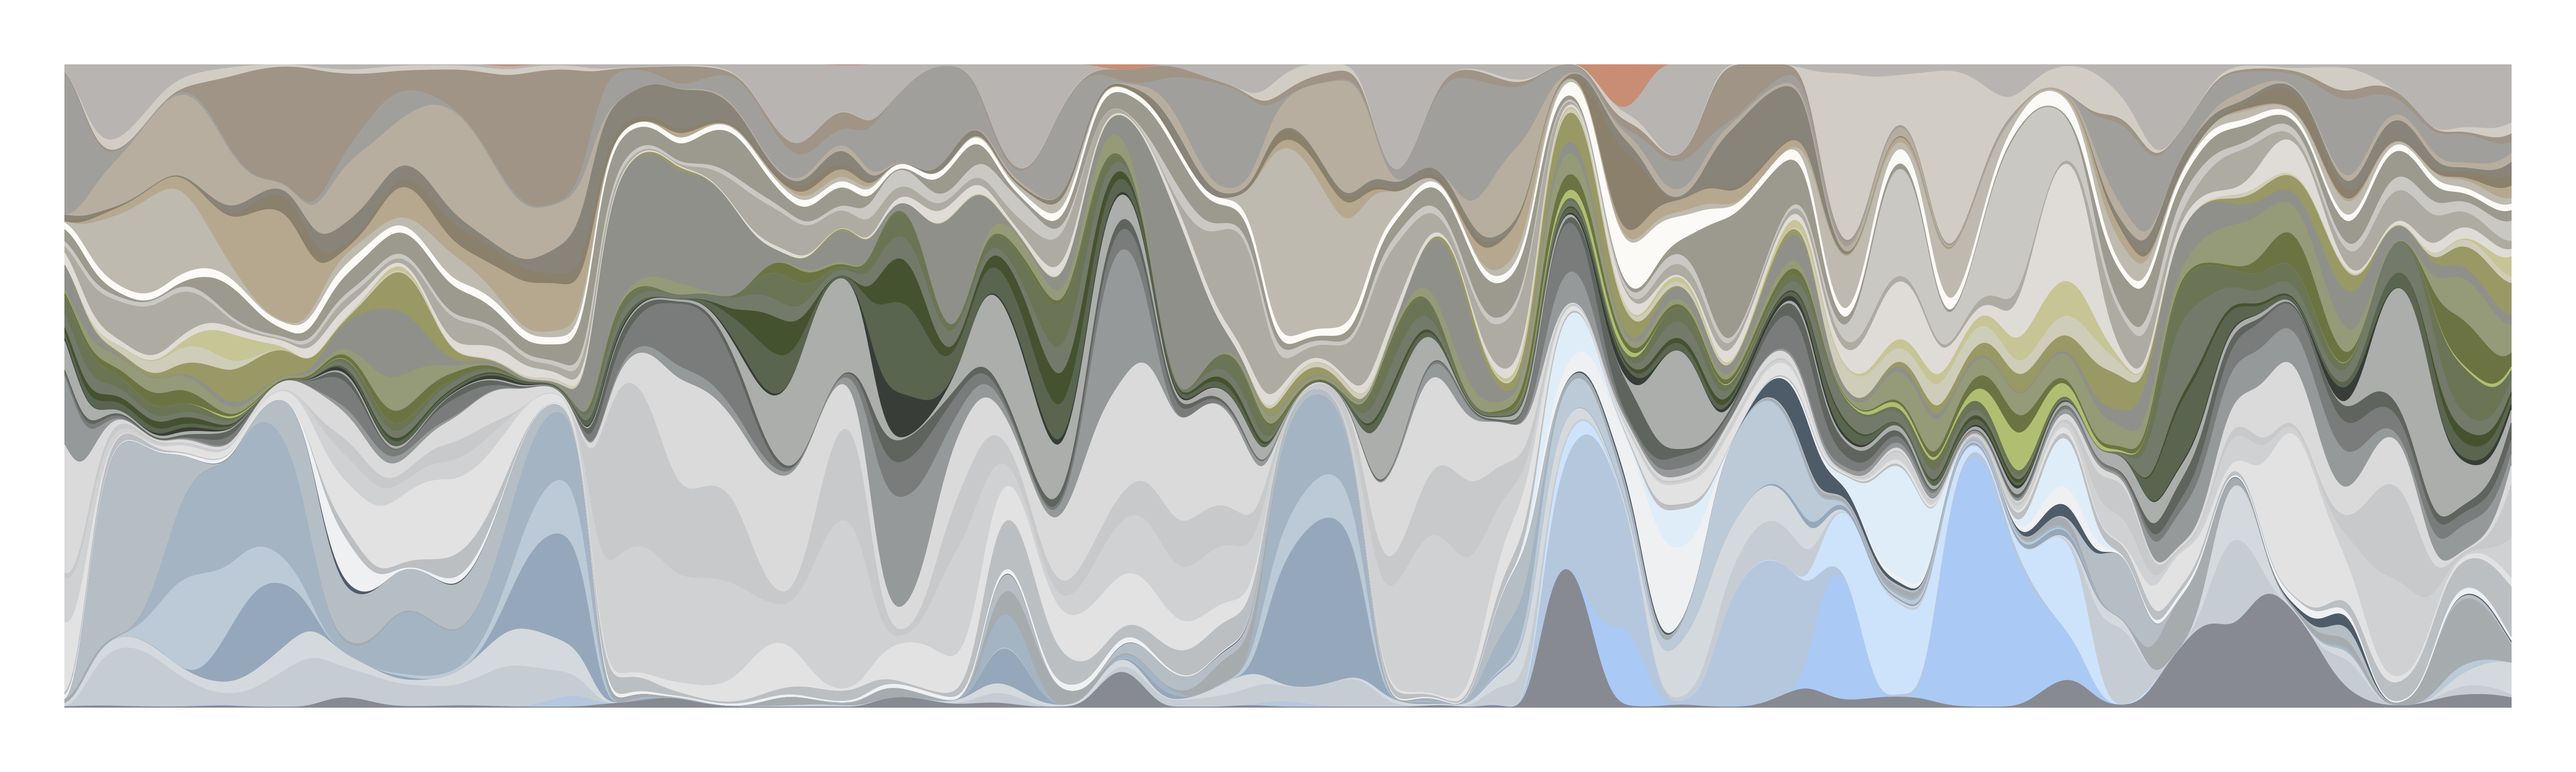
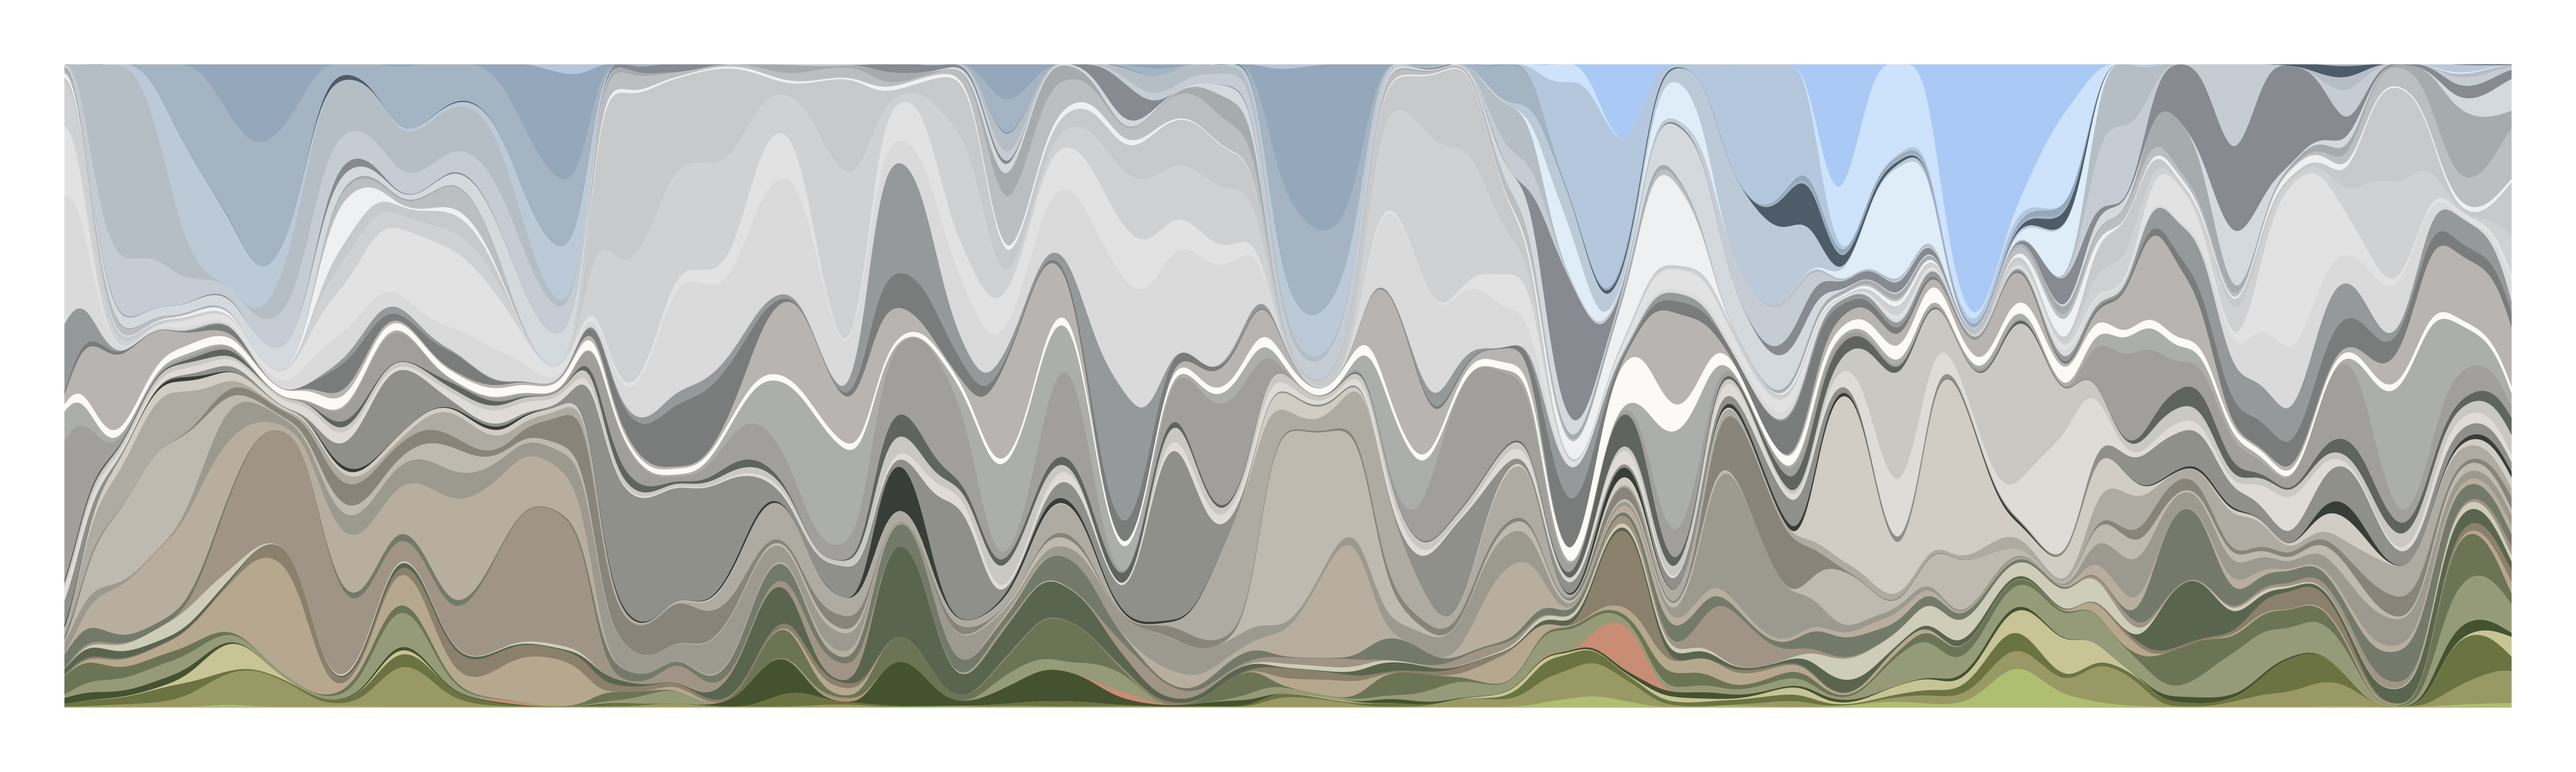
add chunck label to cluster

diff --git a/oregon/03-cluster.md b/oregon/03-cluster.md
@@ -3,28 +3,9 @@ Count and cluster colors for route Corvallis, OR to Portland, OR
 
 ``` r
 library(tidyverse)
-```
-
-    ## ── Attaching packages ─────────────────────────────────────── tidyverse 1.2.1 ──
-
-    ## ✔ ggplot2 3.2.0     ✔ purrr   0.3.2
-    ## ✔ tibble  2.1.3     ✔ dplyr   0.8.3
-    ## ✔ tidyr   0.8.3     ✔ stringr 1.4.0
-    ## ✔ readr   1.3.1     ✔ forcats 0.4.0
-
-    ## ── Conflicts ────────────────────────────────────────── tidyverse_conflicts() ──
-    ## ✖ dplyr::filter() masks stats::filter()
-    ## ✖ dplyr::lag()    masks stats::lag()
-
-``` r
 library(colorspace)
 library(routes)
 library(here)
-```
-
-    ## here() starts at /Users/wickhamc/Documents/Projects/routes/routes
-
-``` r
 set.seed(21978) # both subsampling and clustering are random, 
                 # set a seed to get reproducible image
 ```
@@ -65,7 +46,7 @@ centers <- match.fun(cluster_space)(clusters$center)
 centers %>% hex() %>% pal()
 ```
 
-![](03-cluster_files/figure-gfm/unnamed-chunk-4-1.png)<!-- -->
+![](03-cluster_files/figure-gfm/cluster-colors-1.png)<!-- -->
 
 ## Count pixels in each cluster
 
@@ -84,7 +65,7 @@ color_freq_sample %>%
   coord_flip()
 ```
 
-![](03-cluster_files/figure-gfm/unnamed-chunk-6-1.png)<!-- -->
+![](03-cluster_files/figure-gfm/hist-colors-sample-1.png)<!-- -->
 
 ## Count pixels in each image
 
@@ -109,14 +90,14 @@ route_images %>%
   equal_margins()
 ```
 
-![](03-cluster_files/figure-gfm/unnamed-chunk-8-1.png)<!-- -->
+![](03-cluster_files/figure-gfm/initial-plot-1.png)<!-- -->
 
 ``` r
-orderby <- quo(H)
+orderby <- quo(V)
 ```
 
 You might try re-ordering the colors by one of the color dimensions,
-e.g. H, other options are `V`, `U` or `L`:
+e.g. V, other options are `H`, `U` or `L`:
 
 ``` r
 route_images %>% 
@@ -127,7 +108,7 @@ route_images %>%
   equal_margins()
 ```
 
-![](03-cluster_files/figure-gfm/unnamed-chunk-10-1.png)<!-- -->
+![](03-cluster_files/figure-gfm/ordered-plot-1.png)<!-- -->
 
 ## (Optional) Smoothing
 
@@ -164,7 +145,7 @@ route_smooth  %>%
   equal_margins()
 ```
 
-![](03-cluster_files/figure-gfm/unnamed-chunk-13-1.png)<!-- -->
+![](03-cluster_files/figure-gfm/smooth-plot-1.png)<!-- -->
 
 Scaling to have frequencies add to 1 restores the rectangular
 boundaries:
@@ -180,7 +161,7 @@ route_smooth  %>%
   equal_margins() 
 ```
 
-![](03-cluster_files/figure-gfm/unnamed-chunk-14-1.png)<!-- -->
+![](03-cluster_files/figure-gfm/smooth-scaled-plot-1.png)<!-- -->
 
 ## (Optional) Interpolate
 
@@ -217,7 +198,7 @@ route_interpolate %>%
   equal_margins()
 ```
 
-![](03-cluster_files/figure-gfm/unnamed-chunk-17-1.png)<!-- -->
+![](03-cluster_files/figure-gfm/interp-plot-1.png)<!-- -->
 
 ## Save image
 

diff --git a/oregon/01-route.md b/oregon/01-route.md
@@ -3,25 +3,9 @@ Get coordinates of route Corvallis, OR to Portland, OR
 
 ``` r
 library(tidyverse)
-```
-
-    ## ── Attaching packages ─────────────────────────────────────── tidyverse 1.2.1 ──
-
-    ## ✔ ggplot2 3.2.0     ✔ purrr   0.3.2
-    ## ✔ tibble  2.1.3     ✔ dplyr   0.8.3
-    ## ✔ tidyr   0.8.3     ✔ stringr 1.4.0
-    ## ✔ readr   1.3.1     ✔ forcats 0.4.0
-
-    ## ── Conflicts ────────────────────────────────────────── tidyverse_conflicts() ──
-    ## ✖ dplyr::filter() masks stats::filter()
-    ## ✖ dplyr::lag()    masks stats::lag()
-
-``` r
 library(routes)
 library(here)
 ```
-
-    ## here() starts at /Users/wickhamc/Documents/Projects/routes/routes
 
 ``` r
 start <- "Corvallis, OR"
@@ -90,7 +74,7 @@ ggmap(map) +
   theme_void()
 ```
 
-![](01-route_files/figure-gfm/unnamed-chunk-4-1.png)<!-- -->
+![](01-route_files/figure-gfm/unnamed-chunk-5-1.png)<!-- -->
 
 Save for later:
 

diff --git a/oregon/02-streetview.md b/oregon/02-streetview.md
@@ -3,27 +3,8 @@ Get Street View images Corvallis, OR to Portland, OR
 
 ``` r
 library(tidyverse)
-```
-
-    ## ── Attaching packages ─────────────────────────────────────── tidyverse 1.2.1 ──
-
-    ## ✔ ggplot2 3.2.0     ✔ purrr   0.3.2
-    ## ✔ tibble  2.1.3     ✔ dplyr   0.8.3
-    ## ✔ tidyr   0.8.3     ✔ stringr 1.4.0
-    ## ✔ readr   1.3.1     ✔ forcats 0.4.0
-
-    ## ── Conflicts ────────────────────────────────────────── tidyverse_conflicts() ──
-    ## ✖ dplyr::filter() masks stats::filter()
-    ## ✖ dplyr::lag()    masks stats::lag()
-
-``` r
 library(routes)
 library(here)
-```
-
-    ## here() starts at /Users/wickhamc/Documents/Projects/routes/routes
-
-``` r
 max_images <- 50 # download at most this many images
 ```
 
